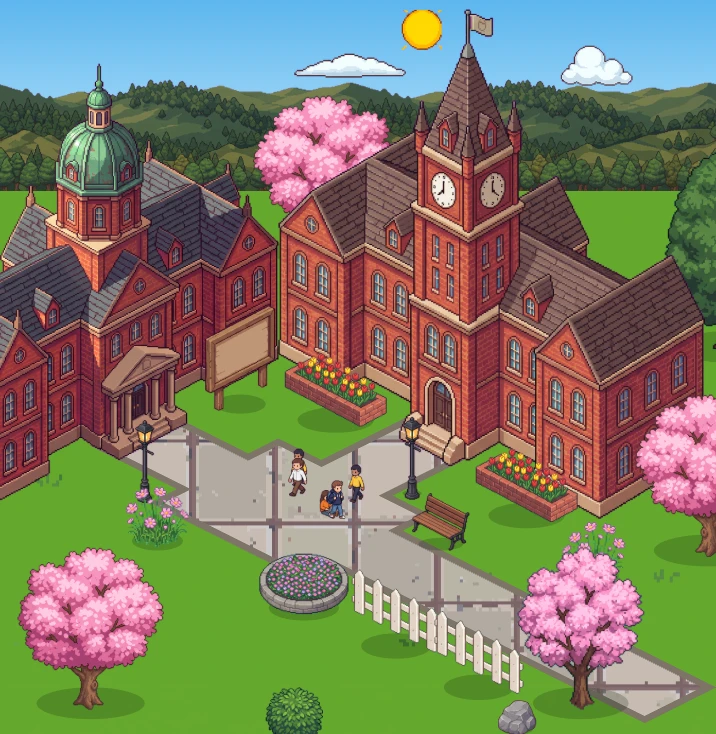
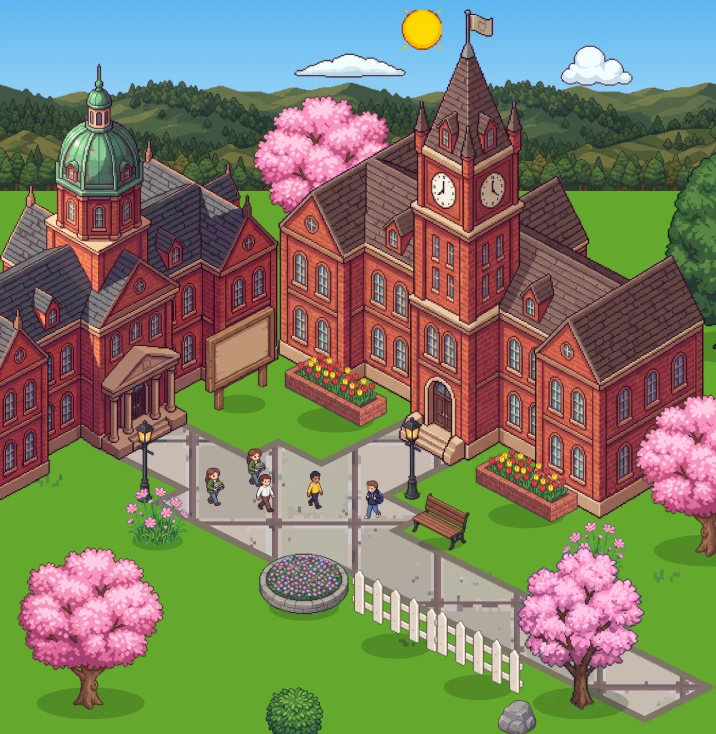
feat: 학교 Lv.6 배경 수정

Changed region(s): [[0.338, 0.5995, 0.5531, 0.7193], [0.2765, 0.6294, 0.3073, 0.6894]]

diff --git a/frontend/src/data/campusLayouts.ts b/frontend/src/data/campusLayouts.ts
@@ -372,15 +372,19 @@ export const CAMPUS_LAYOUTS: Readonly<Partial<Record<number, CampusLayout>>> = {
       lv6Lecture, lv6Main,
       ...[P(80, 118), P(122, 112), P(164, 118), P(206, 112), P(240, 120)].map((p, i) => at((['tree-maple-orange', 'tree-cherry-1', 'tree-oak-2', 'tree-pine', 'tree-cherry-2'] as const)[i], p, { flip: i % 2 === 1 })),
       // One lamp per spot: two at the plaza corners, then a row down the south path (F5).
-      at('lamp', iso(lv6Plaza, 30, -26)), at('lamp', iso(lv6Plaza, -30, 26)),
+      // The lamp by the main hall stands in front of it, never hidden behind it (user request 2026-11-27).
+      at('lamp', iso(lv6Plaza, 18, -28), { depth: lv6Main.y + 1 }), at('lamp', iso(lv6Plaza, -32, 18)),
       ...along(iso(lv6Plaza, 0, 50), iso(lv6Plaza, 0, 110), 3).map((p) => at('lamp', iso(p, 14))),
-      at('flowerbed-1', iso(lv6Plaza, 44, 44)), at('flowerbed-2', iso(lv6Plaza, -42, 42)), at('flowerbed-1', iso(lv6Plaza, 34, -40)),
-      at('bench', iso(lv6Plaza, 40, 18)), at('bush-2', P(214, 264)), at('tree-cherry-1', P(70, 250)), at('tree-maple-red', P(276, 276)),
+      at('flowerbed-1', iso(lv6Plaza, 30, 44)), at('flowerbed-2', iso(lv6Plaza, -40, 42)), at('flowerbed-1', iso(lv6Plaza, 49, -12), { flip: true }),
+      at('bush-2', P(214, 264)), at('tree-cherry-1', P(70, 250)), at('tree-maple-red', P(276, 276)),
       ...crowd(lv6Plaza, 24, 20, 6, 3), ...crowd(iso(lv6Plaza, 0, 60), 6, 30, 3, 4),
       ...scatter([P(110, 280), P(310, 236), P(60, 200)], 5),
+      // The school signboard stands on the lawn between the main hall and the lecture hall, turned toward the
+      // lecture hall and drawn over the main hall, as on Lv.5 (user request 2026-11-27).
+      at('signboard', iso(faceMid(lv6Main, 'left'), -50, 22), { depth: lv6Main.y + 1 }),
       // Garden fill (F11, UF): low hedges edge the plaza walks, planters line the hall front.
-      ...[66, 94].map((u) => at('hedge-low', iso(lv6Plaza, u, 27), { flip: true })),
-      ...[64, 92].map((v) => at('hedge-low', iso(lv6Plaza, -15, v))),
+      ...[53, 80].map((u) => at('hedge-low', iso(lv6Plaza, u, 27), { flip: true })),
+      ...[48, 74].map((v) => at('hedge-low', iso(lv6Plaza, -8, v))),
       ...[-26, 26].map((u) => at('planter-strip', iso(faceMid(lv6Main, 'left'), u, 6), { flip: true, depth: lv6Main.y + 1 })),
     ],
     features: { '제2강의동': 'lecture-2-r', '빈티지 가로등': 'lamp', '화단': 'flowerbed-1' },

diff --git a/frontend/tests/campusScene.test.ts b/frontend/tests/campusScene.test.ts
@@ -472,9 +472,9 @@ test('Lv.3: lanterns, log benches and a notice board line the dirt paths', () =>
   }
 });
 
-test('Lv.4·5도 Lv.3처럼 학교 표지판 하나가 정해진 방향으로 서고 본관보다 앞에 그려진다', () => {
+test('Lv.4·5·6도 Lv.3처럼 학교 표지판 하나가 정해진 방향으로 서고 본관보다 앞에 그려진다', () => {
   // Lv.5's sign stands on the lawn toward the library, turned 90 degrees from Lv.4's (user request 2026-11-27).
-  for (const [level, flip] of [[4, true], [5, undefined]] as const) {
+  for (const [level, flip] of [[4, true], [5, undefined], [6, undefined]] as const) {
     const layout = CAMPUS_LAYOUTS[level]!;
     const hall = layout.items.find((i) => i.asset === 'main-clocktower')!;
     const signs = layout.items.filter((i) => i.asset === 'signboard' || i.asset === 'notice-board');
